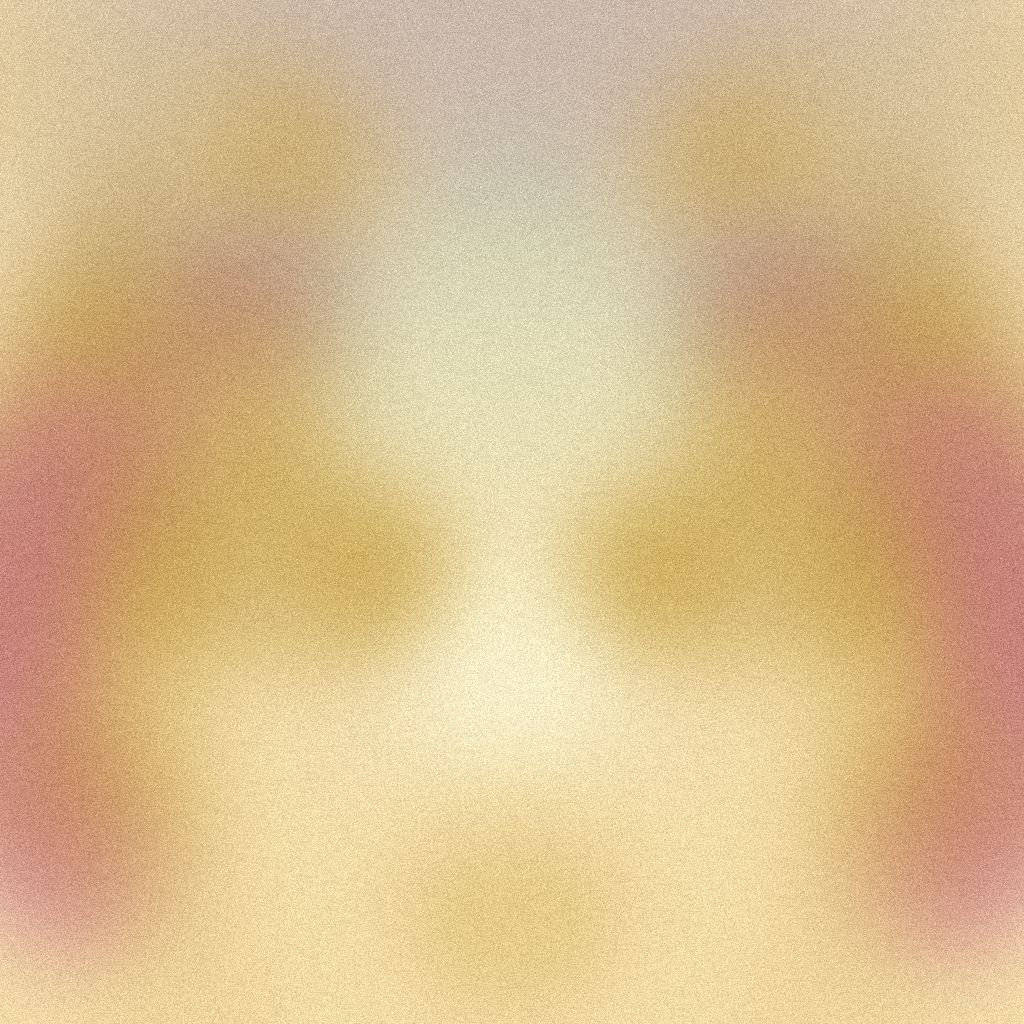
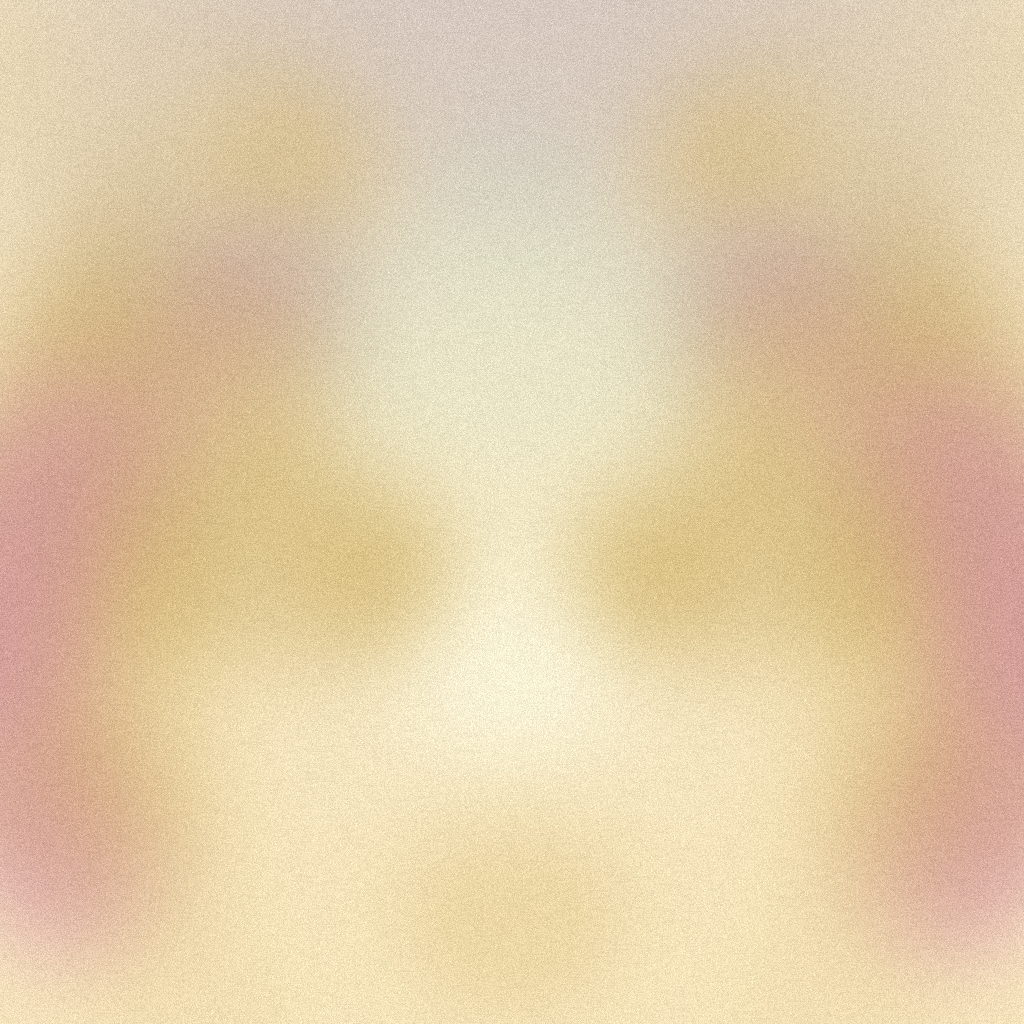
Replace five MY PET color assets

diff --git a/my/pet/avatar/index.html b/my/pet/avatar/index.html
@@ -15,7 +15,7 @@
   <link rel="stylesheet" href="/css/my-page.css?v=20260924-favorite-card-v2">
   <link rel="stylesheet" href="/css/my-pet-avatar.css?v=20260929-compact-patterns-v1">
   <script defer src="/js/proved-header.js?v=20260922-pet-detail-v1"></script>
-  <script defer src="/js/pet-avatar-renderer.js?v=20260929-pattern-labels-v1"></script>
+  <script defer src="/js/pet-avatar-renderer.js?v=20260929-color-refresh-v1"></script>
   <script defer src="/js/my-pet-avatar.js?v=20260929-compact-patterns-v1"></script>
 </head>
 <body class="my-body">

diff --git a/js/pet-avatar-renderer.js b/js/pet-avatar-renderer.js
@@ -1,7 +1,7 @@
 (function () {
   'use strict';
   const base = '/images/pet-avatar/assets/';
-  const asset = (folder, file) => base + folder + '/' + file + '.png?v=20260929-pure-white-v1';
+  const asset = (folder, file) => base + folder + '/' + file + '.png?v=20260929-color-refresh-v1';
   const make = (entries) => Object.fromEntries(entries);
   const shapes = make(Array.from({ length: 8 }, (_, i) => {
     const id = '02_' + String(i + 1).padStart(2, '0');
